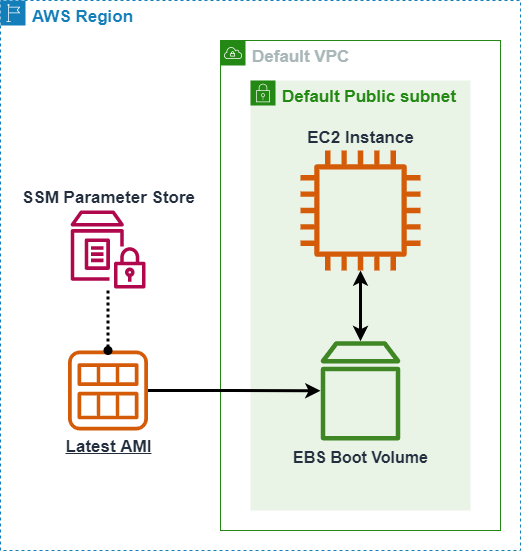
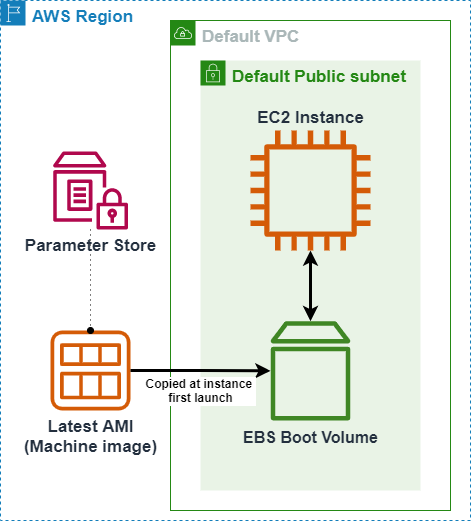
add architecture diagrams

diff --git a/readme.md b/readme.md
@@ -11,5 +11,5 @@
 ---
 | Simplest Example Stack |  Template | Diagram |
 | --- | --- | --- |
-| <a href='https://eu-west-1.console.aws.amazon.com/cloudformation/home?region=eu-west-1#/stacks/create/review?templateURL=https://s3.eu-west-1.amazonaws.com/welcloud.io.aws-simplest-examples/cloudformation-templates/ec2/ase-one-ec2-instance-with-httpd-app.template.yaml&stackName=ase-one-ec2-instance-with-httpd-app' target='_blank'>CREATE STACK ase-one-ec2-instance-with-httpd-app</a> | [download](https://s3.eu-west-1.amazonaws.com/welcloud.io.aws-simplest-examples/cloudformation-templates/ec2/ase-one-ec2-instance-with-httpd-app.template.yaml) | - |
+| <a href='https://eu-west-1.console.aws.amazon.com/cloudformation/home?region=eu-west-1#/stacks/create/review?templateURL=https://s3.eu-west-1.amazonaws.com/welcloud.io.aws-simplest-examples/cloudformation-templates/ec2/ase-one-ec2-instance-with-httpd-app.template.yaml&stackName=ase-one-ec2-instance-with-httpd-app' target='_blank'>CREATE STACK ase-one-ec2-instance-with-httpd-app</a> | [download](https://s3.eu-west-1.amazonaws.com/welcloud.io.aws-simplest-examples/cloudformation-templates/ec2/ase-one-ec2-instance-with-httpd-app.template.yaml) | [view](https://s3.eu-west-1.amazonaws.com/welcloud.io.aws-simplest-examples/architecture-diagrams/ec2/ase-one-ec2-instance-with-httpd-app.png) |
 | <a href='https://eu-west-1.console.aws.amazon.com/cloudformation/home?region=eu-west-1#/stacks/create/review?templateURL=https://s3.eu-west-1.amazonaws.com/welcloud.io.aws-simplest-examples/cloudformation-templates/ec2/ase-one-ec2-instance-with-latest-ami.template.yaml&stackName=ase-one-ec2-instance-with-latest-ami' target='_blank'>CREATE STACK ase-one-ec2-instance-with-latest-ami</a> | [download](https://s3.eu-west-1.amazonaws.com/welcloud.io.aws-simplest-examples/cloudformation-templates/ec2/ase-one-ec2-instance-with-latest-ami.template.yaml) | [view](https://s3.eu-west-1.amazonaws.com/welcloud.io.aws-simplest-examples/architecture-diagrams/ec2/ase-one-ec2-instance-with-latest-ami.png) |
